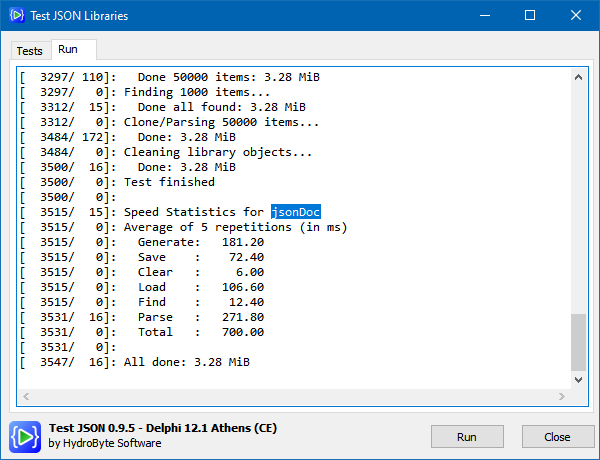
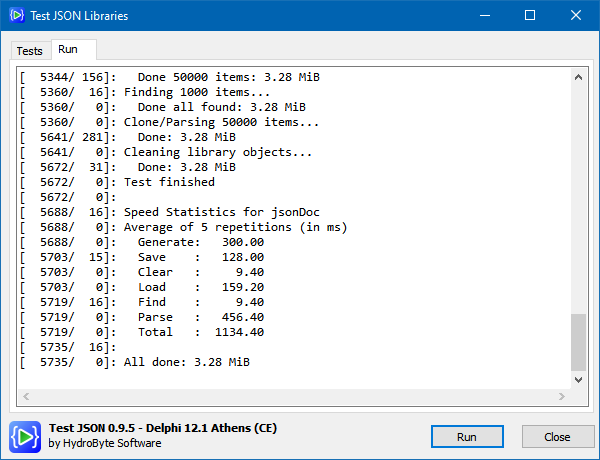
Update tests to jsonDoc v1.2.5.

diff --git a/README.md b/README.md
@@ -74,7 +74,7 @@ Library             | Generate  | Save     | Load     | Find     | Parse    | [T
 `System.JSON`       |     .02 s |    .01 s |    .06 s |    .22 s |    .06 s |    0.43 s | 11.38 MiB |
 `EasyJson`          |     .02 s |    .01 s |    .06 s |    .23 s |    .07 s |    0.45 s | 11.38 MiB |  
 `LkJson`            |     .06 s |    .05 s |    .10 s |    .01 s |    .14 s |    0.45 s |  2.99 MiB |
-`JsonDoc`           |     .18 s |    .07 s |    .11 s |    .01 s |    .27 s |    0.70 s |  6.14 MiB |
+`JsonDoc`           |     .30 s |    .13 s |    .16 s |    .01 s |    .46 s |    1.13 s |  6.14 MiB |
 `SuperObject`       |     .13 s |   1.21 s |    .05 s |    .00 s |    .06 s |    1.53 s |  9.68 MiB |
 `dwsJSON`           |     .01 s |    .01 s |   0.92 s |    .03 s |   0.91 s |    1.92 s |  9.88 MiB |
 `JsonDataObjects`   |    5.61 s |    .01 s |    .09 s |    .11 s |    .10 s |    5.97 s |  8.98 MiB |
